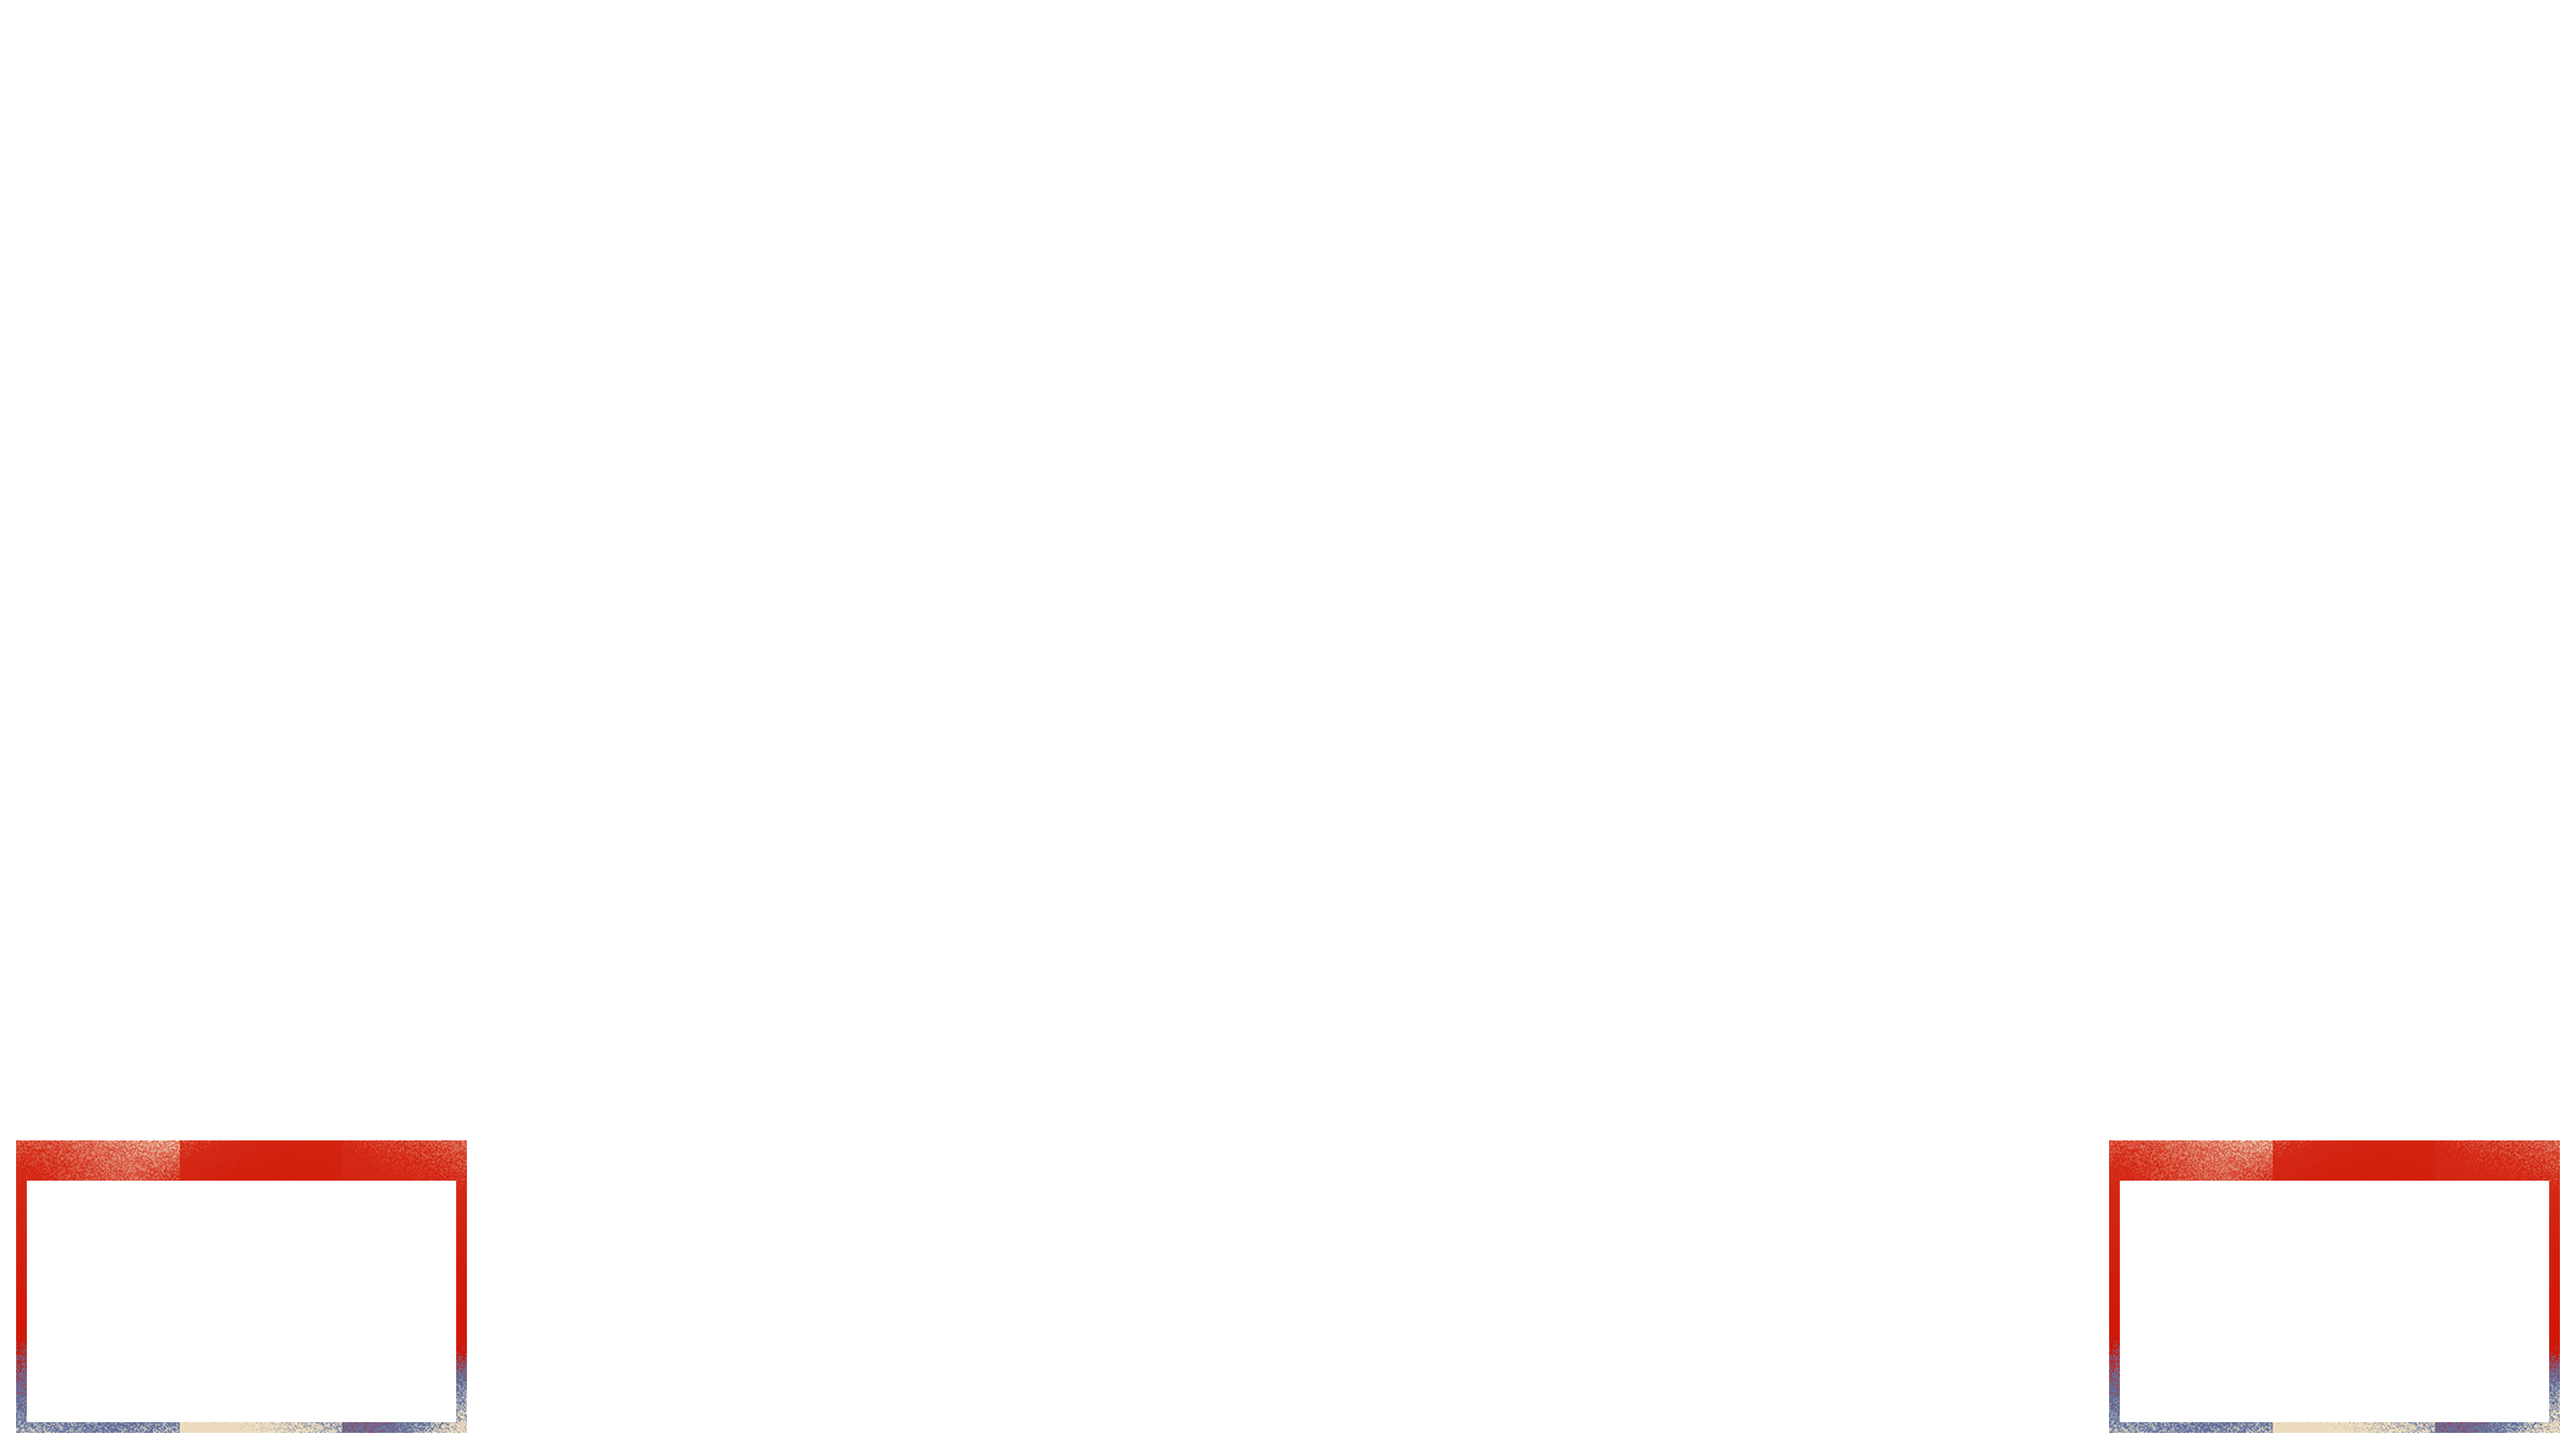
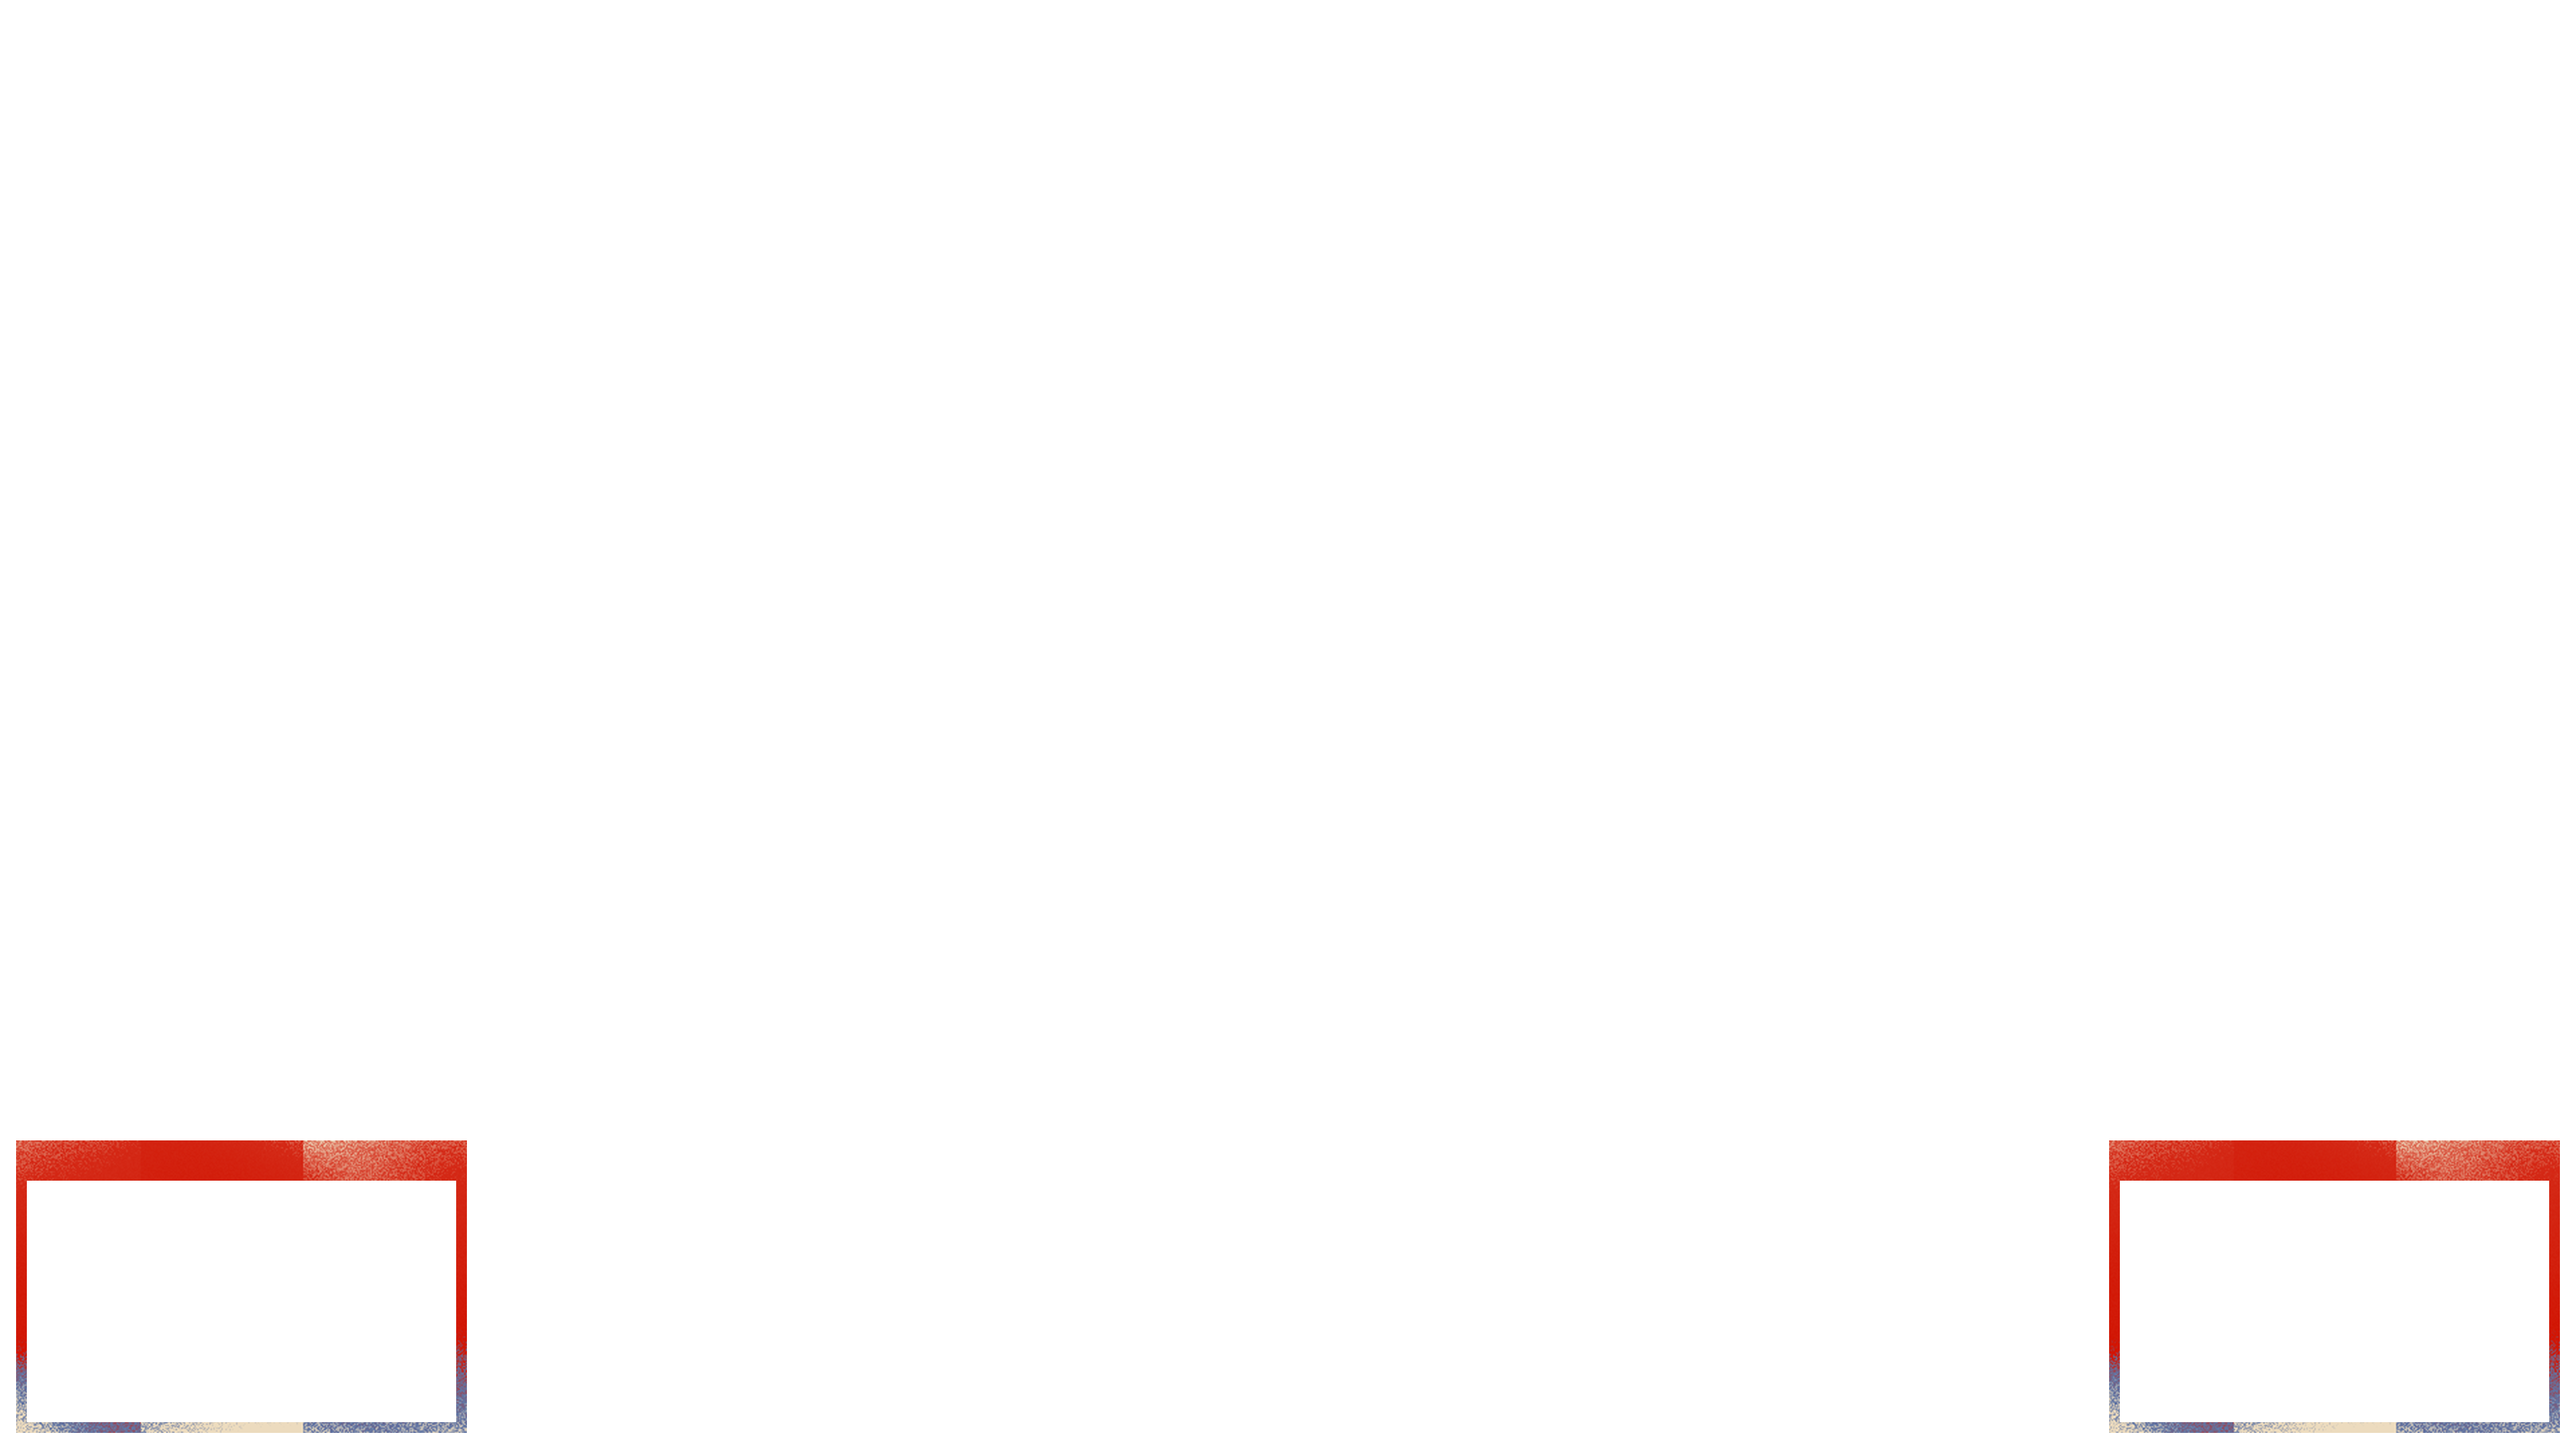
update score layout and adjust top8

diff --git a/components/obs/bracket/BracketBox.module.scss b/components/obs/bracket/BracketBox.module.scss
@@ -43,28 +43,21 @@ $black: "Satoshi", "Noto Sans JP", sans-serif;
   position: absolute;
   display: flex;
   justify-content: space-between;
-  width: 295px;
+  width: 290px;
   height: 85px;
-  padding-left: 11px;
+  padding-left: 10px;
 
   p {
     margin: 0;
-
-    span {
-      margin-left: 6px;
-
-      &:first-child {
-        margin-left: 0;
-      }
-    }
   }
 }
 
 .playerTeam {
   @include mediumWeight;
 
+  display: none;
   font-size: 22px;
-  line-height: 42px;
+  line-height: 37px;
   color: var(--bb-black);
   letter-spacing: 1px;
 }
@@ -72,10 +65,13 @@ $black: "Satoshi", "Noto Sans JP", sans-serif;
 .playerName {
   @include blackWeight;
 
-  font-size: 22px;
-  line-height: 42px;
-  color: var(--bb-black);
-  letter-spacing: 1px;
+  margin-left: 0 !important;
+  font-family: toppan-bunkyu-midashi-go-std, sans-serif;
+  font-size: 20px;
+  font-weight: 900;
+  font-feature-settings: "palt";
+  line-height: 37px;
+  color: #ecdbbe !important;
 }
 
 .score {
@@ -83,10 +79,13 @@ $black: "Satoshi", "Noto Sans JP", sans-serif;
 
   width: 40px;
   margin: 0;
-  font-size: 30px;
+  font-family: helvetica-neue-lt-pro, sans-serif;
+  font-size: 24px;
+  font-style: normal;
+  font-weight: 700;
   font-variant-numeric: tabular-nums;
-  line-height: 42px;
-  color: var(--bb-black);
+  line-height: 37px;
+  color: #ecdbbe !important;
   text-align: center;
 }
 

diff --git a/components/obs/bracket/Bracket.tsx b/components/obs/bracket/Bracket.tsx
@@ -9,22 +9,22 @@ import {
 import { BracketBox } from "./BracketBox"
 
 const keys2Pos: { [key: string]: { top: string; left: string }[] } = {
-  grandFinalReset: [{ top: "400px", left: "1498px" }],
-  grandFinal: [{ top: "400px", left: "1498px" }],
-  winnersFinal: [{ top: "199px", left: "807px" }],
+  grandFinalReset: [{ top: "405px", left: "1510px" }],
+  grandFinal: [{ top: "405px", left: "1510px" }],
+  winnersFinal: [{ top: "405px", left: "776px" }],
   winnersSemiFinal: [
-    { top: "122px", left: "117px" },
-    { top: "276px", left: "117px" },
+    { top: "328px", left: "62px" },
+    { top: "481px", left: "62px" },
   ],
-  losersFinal: [{ top: "601px", left: "1152px" }],
-  losersSemiFinal: [{ top: "601px", left: "807px" }],
+  losersFinal: [{ top: "766px", left: "1122px" }],
+  losersSemiFinal: [{ top: "781px", left: "776px" }],
   losersQuarterFinal: [
-    { top: "524px", left: "462px" },
-    { top: "678px", left: "462px" },
+    { top: "705px", left: "408px" },
+    { top: "860px", left: "408px" },
   ],
   losersRound: [
-    { top: "524px", left: "117px" },
-    { top: "678px", left: "117px" },
+    { top: "727px", left: "62px" },
+    { top: "883px", left: "62px" },
   ],
 }
 

diff --git a/components/obs/score/Single.scss b/components/obs/score/Single.scss
@@ -30,11 +30,11 @@
     text-align: center;
 
     &.p1 {
-      left: 872px;
+      left: 894px;
     }
 
     &.p2 {
-      right: 918px;
+      right: 894px;
     }
   }
 
@@ -55,11 +55,11 @@
     }
 
     &.p1 {
-      left: 494px;
+      left: 518px;
     }
 
     &.p2 {
-      right: 540px;
+      right: 518px;
     }
 
     .team {
@@ -117,7 +117,7 @@
   .matchType {
     position: absolute;
     top: 48px;
-    left: 891px;
+    left: 914px;
     width: 92px;
     font-family: helvetica-neue-lt-pro, sans-serif;
     font-size: 16px;
